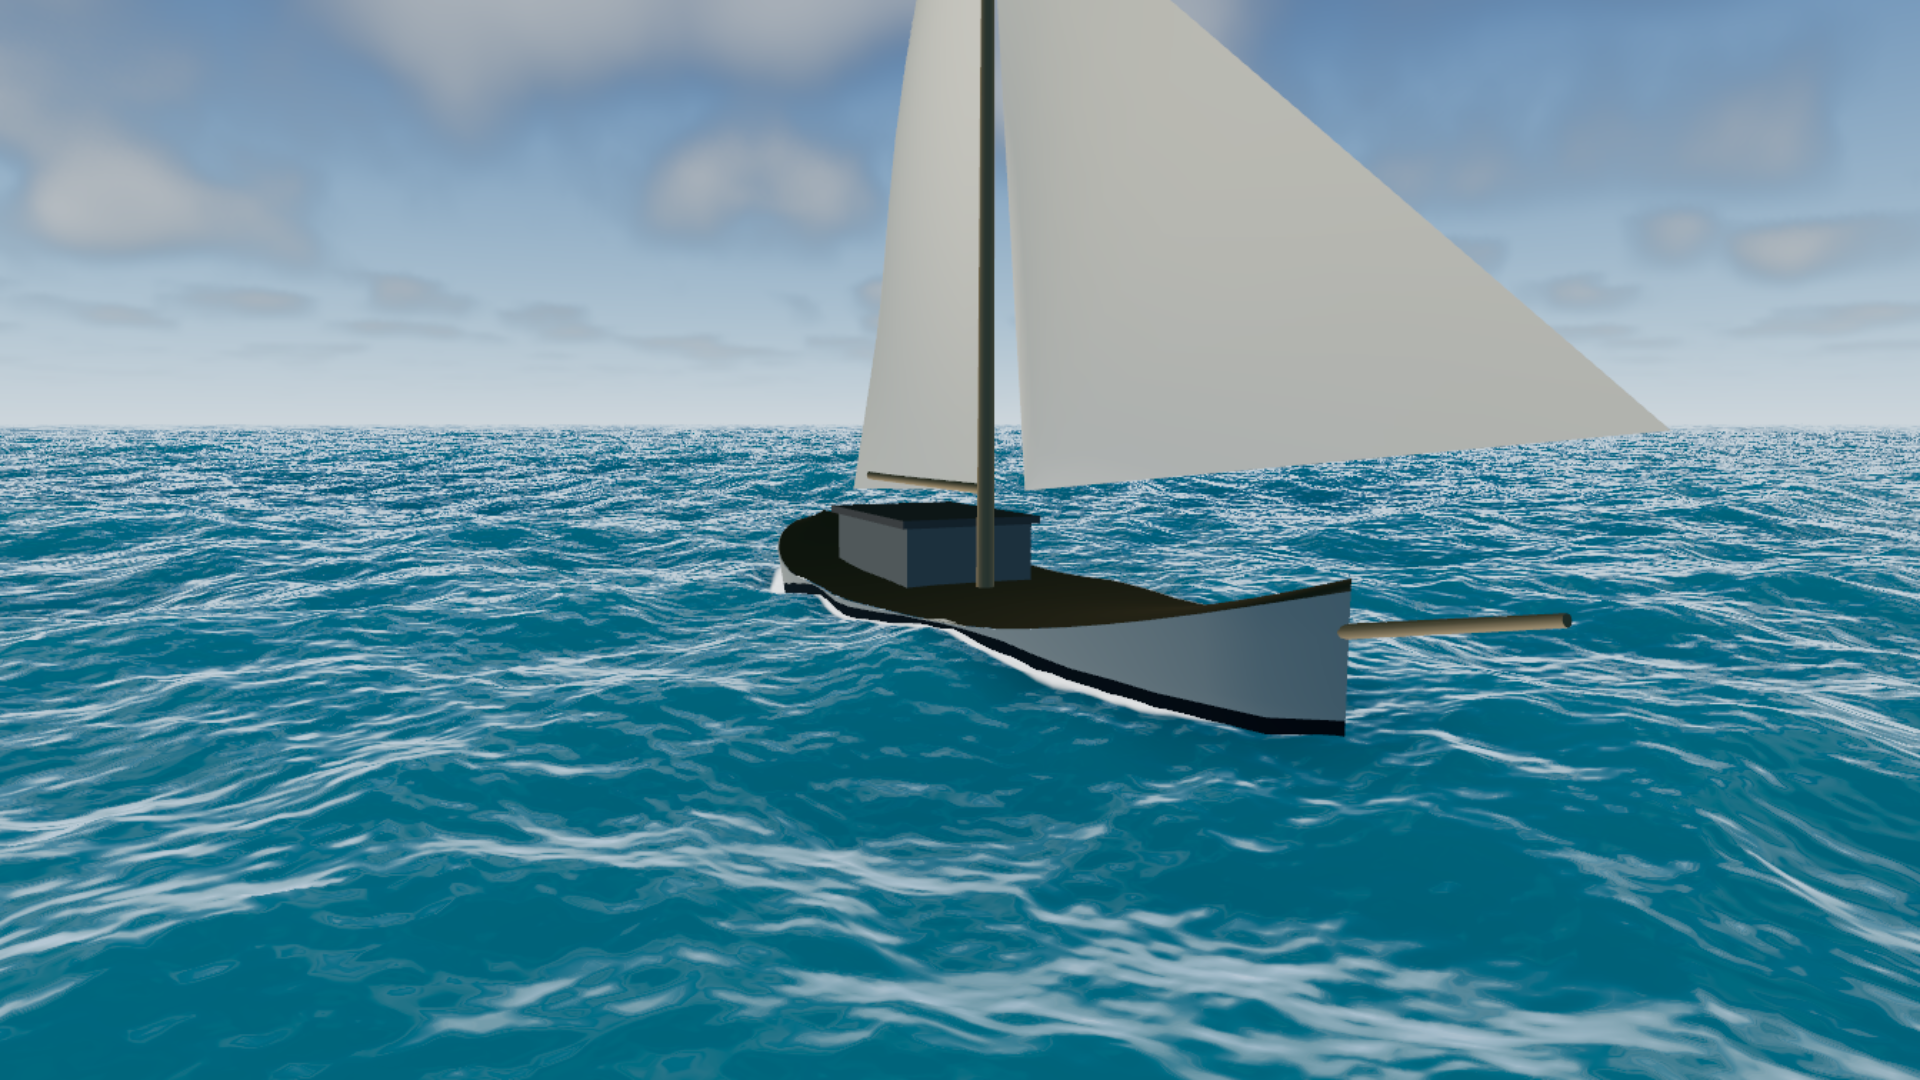
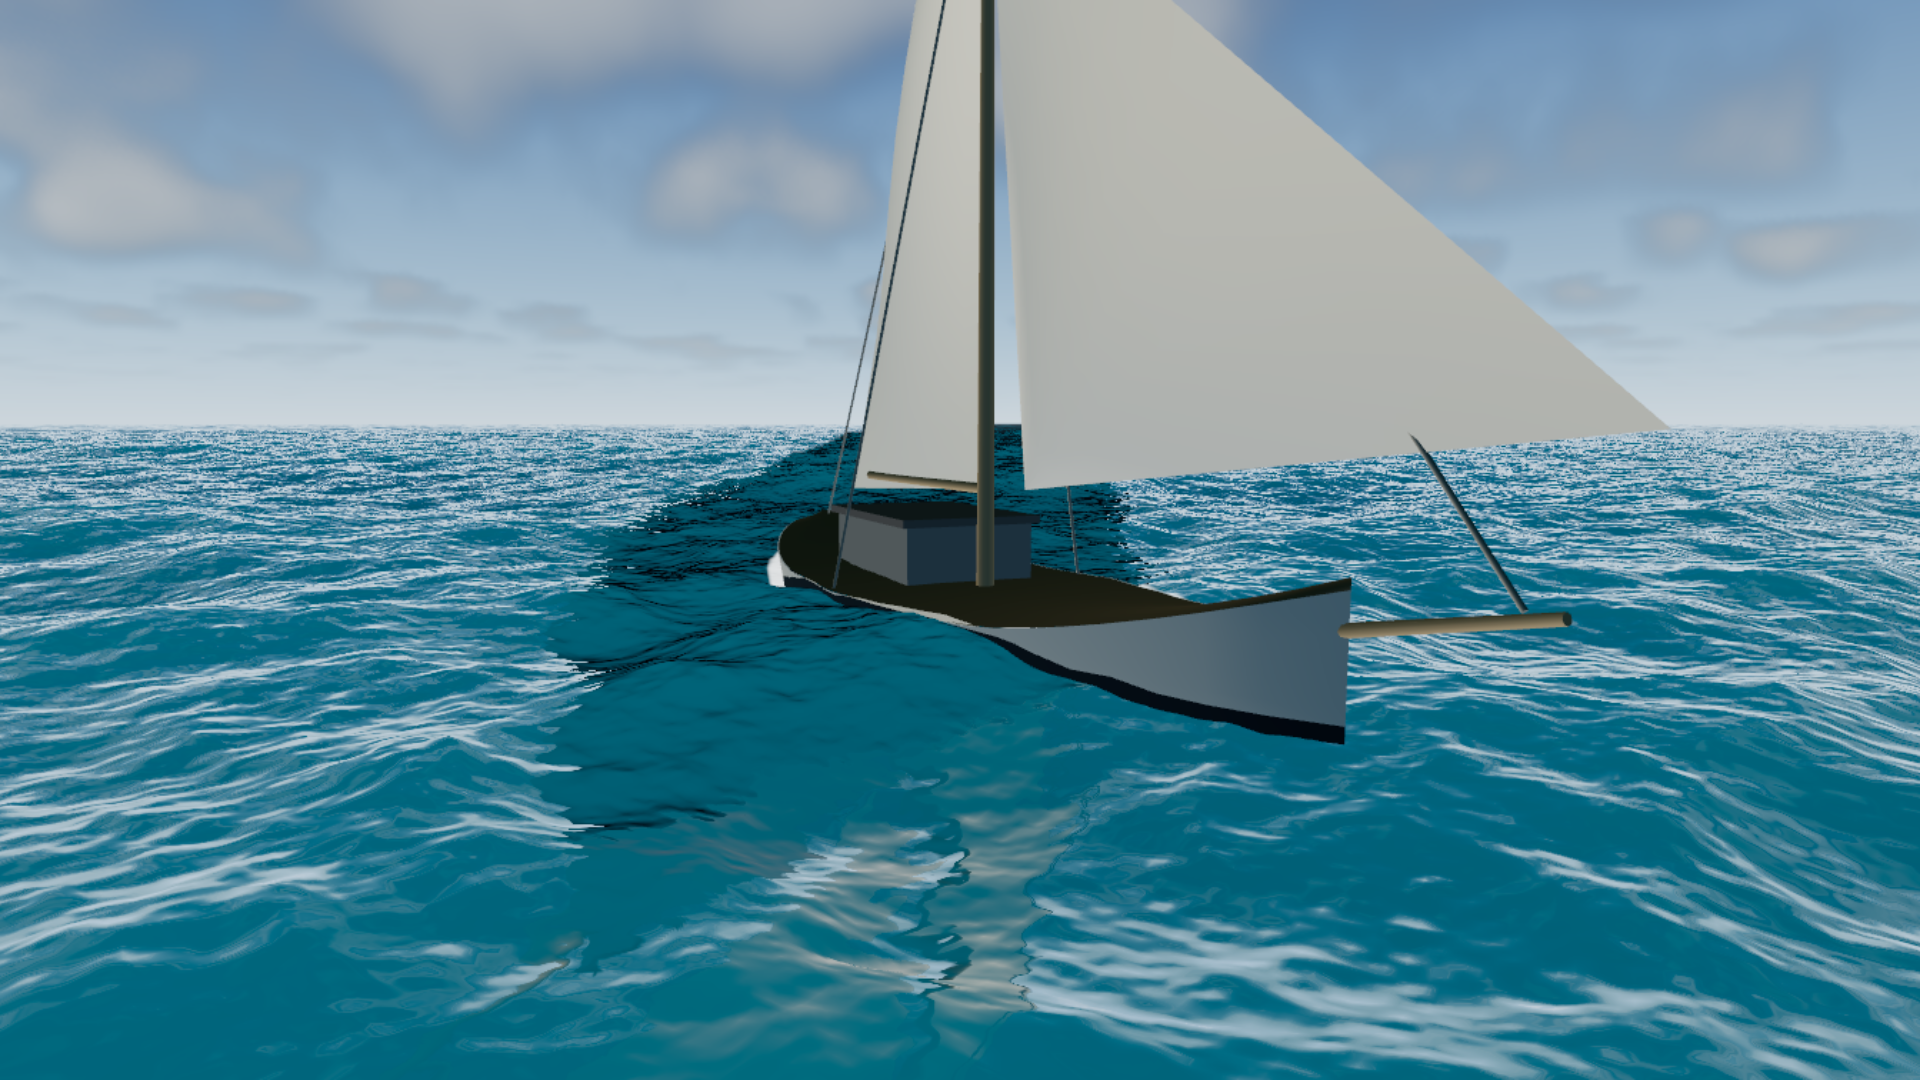
Add planar reflection of the props, standing rigging, tighter hull shadow
The water's reflection is an analytic sky lookup, which is what keeps the
horizon continuous and the reflected sun where the real one is — but a
function of direction alone cannot know there is a boat in the way. The sea
beside the hull showed sky where it should have shown hull, and no amount
of foam at the waterline fixes that: a floating object with no reflection
reads as a sticker.

PropReflection renders the boat and buoys once more at half resolution
through a camera reflected by diag(1, -1, 1). For a mirror plane at y = 0
that makes each screen position correspond to itself, so the water samples
it by screenUV with no projection maths and no dependence on backend
conventions — the same property the cloud pass relies on. The lookup is
displaced by the local surface gradient so the reflection ripples with the
water instead of sitting on it.

Everything below the waterline is cut with a clipping plane. Reflected, the
submerged hull appears *above* the plane, and it smeared across half the
sea as a shadow with no source.

The hull shadow in the water was a 20 m symmetric blob on a 15 m boat. It
is now tight, and offset opposite the sun by the hull height over the sun's
elevation, because a shadow is cast rather than centred.

Standing rigging: forestay, backstay and two shrouds. Four wires costing
almost nothing, and most of what separates a mast from a stick.

Both extra passes were gated on `underwaterFactor < 1`. The factor is
[…]

diff --git a/src/props/reflection.js b/src/props/reflection.js
@@ -1,0 +1,130 @@
+// Planar reflection of the floating objects.
+//
+// The water's reflection is an analytic sky lookup. That is exactly what makes
+// the horizon continuous and the reflected sun land where the real one is — but
+// a function of direction alone cannot know that there is a boat in the way. So
+// the sea beside a hull showed sky where it should have shown hull, and no
+// amount of foam at the waterline fixes that: a floating object with no
+// reflection reads as a sticker.
+//
+// This adds the missing term and nothing else. It renders only the props — one
+// small mesh, half resolution — and the water blends the result into the sky
+// reflection it already computes.
+//
+// Why screenUV is the right lookup, with no projection maths: for a mirror
+// plane at y = 0, a camera reflected through that plane sees, at each screen
+// position, exactly what the real camera sees reflected at that same screen
+// position. Reflecting the camera's world matrix through diag(1, -1, 1) is the
+// whole of the setup. (It flips handedness, so the props render double-sided —
+// which they already do, for the sails.)
+//
+// The surface is not actually a plane, so the lookup is displaced by the local
+// surface gradient. That is the standard approximation and it is what makes the
+// reflection ripple with the water rather than sitting on it like a decal.
+
+import { HalfFloatType, LinearFilter, Matrix4, Mesh, PerspectiveCamera, Plane, RenderTarget, Scene, Vector3 } from 'three/webgpu';
+
+const MIRROR = /*@__PURE__*/ new Matrix4().makeScale( 1, - 1, 1 );
+
+// Everything below the waterline is cut away before mirroring. Without it the
+// submerged hull — which is large, dark and, once reflected, appears *above*
+// the plane — smeared across half the sea as a shadow with no source.
+const WATERLINE = /*@__PURE__*/ new Plane( new Vector3( 0, 1, 0 ), 0 );
+
+export class PropReflection {
+
+	constructor( { scale = 0.5 } = {} ) {
+
+		this.scale = scale;
+
+		this.target = new RenderTarget( 2, 2, {
+			// The props are lit in linear HDR like everything else, and sunlit
+			// canvas comfortably exceeds 1.
+			type: HalfFloatType,
+			depthBuffer: true,
+			stencilBuffer: false,
+		} );
+		this.target.texture.name = 'PropReflection';
+		this.target.texture.minFilter = LinearFilter;
+		this.target.texture.magFilter = LinearFilter;
+		this.target.texture.generateMipmaps = false;
+
+		this.scene = new Scene();
+
+		this.camera = new PerspectiveCamera();
+		this.camera.matrixAutoUpdate = false;
+
+		this._meshes = [];
+
+	}
+
+	get texture() {
+
+		return this.target.texture;
+
+	}
+
+	/**
+	 * Mirror an object into the reflection scene.
+	 *
+	 * A second Mesh sharing the original's geometry and material, because an
+	 * Object3D has one parent and the original has to stay in the main scene.
+	 * Sharing is safe here: these materials place themselves in world space from
+	 * uniforms, so an identity object matrix in either scene gives the same
+	 * result.
+	 */
+	add( mesh ) {
+
+		const clone = new Mesh( mesh.geometry, mesh.material );
+		clone.name = mesh.name + 'Reflection';
+		clone.frustumCulled = false;
+		clone.matrixAutoUpdate = false;
+		this.scene.add( clone );
+		this._meshes.push( clone );
+
+	}
+
+	setSize( width, height ) {
+
+		this.target.setSize(
+			Math.max( 2, Math.round( width * this.scale ) ),
+			Math.max( 2, Math.round( height * this.scale ) )
+		);
+
+	}
+
+	/** Draw the mirrored props. Must run before the main scene render. */
+	render( renderer, camera ) {
+
+		this.camera.projectionMatrix.copy( camera.projectionMatrix );
+		this.camera.projectionMatrixInverse.copy( camera.projectionMatrixInverse );
+		this.camera.matrixWorld.multiplyMatrices( MIRROR, camera.matrixWorld );
+		this.camera.matrixWorldNeedsUpdate = false;
+
+		const previousTarget = renderer.getRenderTarget();
+		const previousAlpha = renderer.getClearAlpha();
+
+		// Coverage rides in alpha, so the background has to clear to zero — the
+		// water uses it to decide where there is anything to reflect at all.
+		const previousClip = renderer.clippingPlanes;
+
+		renderer.clippingPlanes = [ WATERLINE ];
+		renderer.setClearAlpha( 0 );
+		renderer.setRenderTarget( this.target );
+		renderer.clear();
+		renderer.render( this.scene, this.camera );
+		renderer.setRenderTarget( previousTarget );
+		renderer.setClearAlpha( previousAlpha );
+		renderer.clippingPlanes = previousClip;
+
+	}
+
+	dispose() {
+
+		for ( const m of this._meshes ) this.scene.remove( m );
+		this._meshes.length = 0;
+		this.target.dispose();
+
+	}
+
+}

diff --git a/src/main.js b/src/main.js
@@ -22,6 +22,7 @@ import { SPECTRAL_TIERS, SpectralOcean } from './ocean/spectral.js';
 import { Ocean, createOceanMaterial } from './ocean/material.js';
 import { Buoys } from './props/buoys.js';
 import { Vessel } from './props/vessel.js';
+import { PropReflection } from './props/reflection.js';
 import { UnderwaterPipeline } from './underwater/pipeline.js';
 import { Particles, Seabed } from './underwater/scenery.js';
 import { FlyControls } from './input/controls.js';
@@ -171,6 +172,7 @@ class App {
 
 			this.underwaterPipeline?.setSize( w, h );
 			this.clouds?.setSize( w, h );
+			this.propReflection?.setSize( w, h );
 
 		};
 		this.sizer.apply();
@@ -297,10 +299,33 @@ class App {
 			? new FoamHistory( this.env, this.field, FOAM_TIERS[ tier.foam ] )
 			: null;
 
+		// The reflection target has to exist before the water material is built,
+		// because the material samples it. Only on the spectral path, which is the
+		// only path that has props to reflect.
+		// ?noreflect=1 drops the pass. Same reason as ?cloudscale: at 1080p the
+		// vsync cap swallows everything under 16.67 ms, so cost can only be
+		// attributed by removing the thing and measuring again in the same session.
+		const noReflect = new URLSearchParams( location.search ).has( 'noreflect' );
+
+		this.propReflection = ( this.spectral && ! noReflect ) ? new PropReflection() : null;
+
+		if ( this.propReflection ) {
+
+			this.propReflection.setSize(
+				this.sizer.width * this.sizer.effectiveDpr,
+				this.sizer.height * this.sizer.effectiveDpr
+			);
+
+		}
+
 		const material = createOceanMaterial( this.env, this.field, {
 			reflection: this.skyFns.reflection,
 			aerial: this.skyFns.aerial,
-		}, { foam: this.foam, spectral: this.spectral?.textures ?? null } );
+		}, {
+			foam: this.foam,
+			spectral: this.spectral?.textures ?? null,
+			propReflection: this.propReflection ? this.propReflection.texture : null,
+		} );
 
 		this.ocean = new Ocean( this.env, this.field, geometryInfo, material );
 		this.scene.add( this.ocean.mesh );
@@ -320,6 +345,9 @@ class App {
 			this.vessel = new Vessel( this.env, this.spectral.textures );
 			this.scene.add( this.vessel.mesh );
 			this.env.u.vesselMix.value = 1;
+
+			this.propReflection?.add( this.vessel.mesh );
+			this.propReflection?.add( this.buoys.mesh );
 
 		} else {
 
@@ -368,6 +396,9 @@ class App {
 			this.vessel = null;
 
 		}
+
+		this.propReflection?.dispose();
+		this.propReflection = null;
 
 		this.scene.remove( this.skyMesh );
 		this.skyMesh.geometry.dispose();
@@ -605,7 +636,21 @@ class App {
 
 		// Clouds third — the sky dome composites this target, and underwater the
 		// dome is hidden, so there is nothing to draw it for.
-		if ( this.clouds && this.underwaterFactor < 1 ) this.clouds.render( this.renderer, this.camera );
+		// Both extra passes are gated well before the transition completes. The
+		// factor is damped and settles at 0.999-something, so a `< 1` test never
+		// actually fired and the submerged camera paid for a sky and a reflection
+		// it could not see — eleven frames a second of it.
+		const surfaced = this.underwaterFactor < 0.9;
+
+		if ( this.clouds && surfaced ) this.clouds.render( this.renderer, this.camera );
+
+		// Mirrored props, for the same reason and with the same gate: below the
+		// surface there is no reflection to see.
+		if ( this.propReflection && surfaced ) {
+
+			this.propReflection.render( this.renderer, this.camera );
+
+		}
 
 		// Above water with no bloom there is nothing for the post pipeline to do,
 		// so the scene goes straight to the canvas at zero extra cost.

diff --git a/src/ocean/material.js b/src/ocean/material.js
@@ -21,7 +21,7 @@ import { DoubleSide, FrontSide, Mesh, MeshBasicNodeMaterial } from 'three/webgpu
 import {
 	Fn, If, cameraPosition, dot, exp, faceDirection, float, length, max, min, mix,
 	mx_fractal_noise_float, normalize, oneMinus, positionGeometry, positionWorld, pow, reflect,
-	refract, saturate, smoothstep, step, texture, varyingProperty, vec2, vec3,
+	refract, saturate, screenUV, smoothstep, step, texture, varyingProperty, vec2, vec3,
 } from 'three/tsl';
 
 import { createWaveEvaluator, foamFromJacobian } from './waves.js';
@@ -229,6 +229,21 @@ export function createOceanMaterial( env, field, sky, opts = {} ) {
 		const R = liftReflection( reflect( V.negate(), N ) ).toVar( 'R' );
 		const reflection = sky.reflection( R, reflBlur ).toVar( 'reflection' );
 
+		if ( opts.propReflection ) {
+
+			// Mirrored props, sampled at this pixel's own screen position — see the
+			// note in reflection.js for why that is exact for a plane at y = 0. The
+			// offset by the surface gradient is what makes the reflection ripple
+			// with the water instead of sitting on it like a decal; it is scaled
+			// down with distance because a gradient that displaces by half a screen
+			// near the camera displaces the horizon into nonsense.
+			const wobble = grad.mul( oneMinus( smoothstep( 4.0, 90.0, vRadial ) ) ).mul( 0.055 );
+			const rp = texture( opts.propReflection, saturate( screenUV.add( wobble ) ) ).toVar( 'propRefl' );
+
+			reflection.assign( mix( reflection, rp.rgb, saturate( rp.a ).mul( u.vesselMix ) ) );
+
+		}
+
 		/* --- sun specular ---------------------------------------------- */
 
 		// This lobe is now the *only* sun highlight on the water, so it carries the
@@ -347,7 +362,11 @@ export function createOceanMaterial( env, field, sky, opts = {} ) {
 			// is the ellipse the boat actually occupies rather than its bounding
 			// box. At a 57-degree heading the box is nearly twice the area, and the
 			// foam collar drawn from it read as a raft the boat was sitting on.
-			const rel = P.xz.sub( u.vesselPos.xz ).toVar( 'hullRel' );
+			// Offset opposite the sun by the hull's own height over the sun's
+			// elevation — a shadow is cast, not centred. Clamped because a low sun
+			// would otherwise throw it to the horizon.
+			const drop = u.sunDir.xz.div( max( u.sunDir.y, float( 0.30 ) ) ).mul( 1.4 );
+			const rel = P.xz.sub( u.vesselPos.xz ).add( drop ).toVar( 'hullRel' );
 			const c = u.vesselDir.x, sn = u.vesselDir.y;
 			const local = vec2(
 				rel.x.mul( c ).add( rel.y.mul( sn ) ),
@@ -360,7 +379,7 @@ export function createOceanMaterial( env, field, sky, opts = {} ) {
 			// it. Without this the boat looks pasted on: it is the darkening in the
 			// water, more than the object itself, that says something is *in* the
 			// sea rather than in front of it.
-			const shade = oneMinus( smoothstep( 0.80, 1.45, hullD ) ).mul( 0.55 ).toVar( 'hullShade' );
+			const shade = oneMinus( smoothstep( 0.72, 1.12, hullD ) ).mul( 0.34 ).toVar( 'hullShade' );
 			body.mulAssign( oneMinus( shade ) );
 
 		} );

diff --git a/src/props/vessel.js b/src/props/vessel.js
@@ -247,6 +247,35 @@ function buildGeometry() {
 	sprit.translate( 0, sheer( 0.985 ) - 0.15, LENGTH_FWD + 0.55 );
 	b.add( sprit, [ 0.42, 0.32, 0.20 ] );
 
+	// --- standing rigging. Four wires, each a hair over a centimetre thick.
+	//     They cost almost nothing and they are most of what separates a mast
+	//     from a stick: a rig reads as tensioned or it reads as a pole.
+	const masthead = [ 0, deckY + 11.2, 1.0 ];
+
+	const strut = ( a, c, r ) => {
+
+		const dx = c[ 0 ] - a[ 0 ], dy = c[ 1 ] - a[ 1 ], dz = c[ 2 ] - a[ 2 ];
+		const len = Math.hypot( dx, dy, dz );
+		const g = new CylinderGeometry( r, r, len, 5 );
+
+		// The cylinder starts along +Y; rotate that onto the span, then translate
+		// to its midpoint.
+		const yaw = Math.atan2( dx, dz );
+		const pitch = Math.atan2( Math.hypot( dx, dz ), dy );
+		g.rotateX( pitch );
+		g.rotateY( yaw );
+		g.translate( ( a[ 0 ] + c[ 0 ] ) / 2, ( a[ 1 ] + c[ 1 ] ) / 2, ( a[ 2 ] + c[ 2 ] ) / 2 );
+		return g;
+
+	};
+
+	const WIRE = [ 0.34, 0.33, 0.30 ];
+
+	b.add( strut( masthead, [ 0, sheer( 0.985 ) + 0.15, LENGTH_FWD + 1.6 ], 0.028 ), WIRE );   // forestay
+	b.add( strut( masthead, [ 0, sheer( 0.02 ) + 0.05, - LENGTH_AFT + 0.4 ], 0.026 ), WIRE );  // backstay
+	b.add( strut( masthead, [ halfBeam( 0.5 ) * 0.94, sheer( 0.5 ), 0.2 ], 0.024 ), WIRE );    // shrouds
+	b.add( strut( masthead, [ - halfBeam( 0.5 ) * 0.94, sheer( 0.5 ), 0.2 ], 0.024 ), WIRE );
+
 	// --- mainsail: a cambered quad from the mast to the boom end. The belly is
 	//     the whole point; a flat sail reads as cardboard.
 	b.add( loft( 10, 10, ( t, v ) => {

diff --git a/README.md b/README.md
@@ -47,6 +47,10 @@ WebGPU를 우선 사용하고, 사용할 수 없으면 같은 코드베이스가
   모델도 텍스처도 없다. 15 m 선체는 자기 길이보다 짧은 파도를 따라갈 수 없으므로 가장 긴
   캐스케이드만 샘플하고, **수면 아래 부분만 자기 위치의 수면 높이에 맞춰 휜다** — 강체로
   두면 선체 밑으로 하늘이 보인다. 수면 쪽에는 흘수선 포말 칼라와 물기둥 그림자가 붙는다.
+- **평면 반사** — 배와 부표만 1/2 해상도로 한 번 더 그린다. 카메라 행렬을 `diag(1,-1,1)`로
+  반사하면 y=0 거울에 대해 각 화면 좌표가 그대로 대응하므로, 물은 `screenUV`로 읽고
+  수면 기울기만큼 흔들면 된다 — 투영 수식도 백엔드 규약 의존도 없다.
+  흘수선 아래는 클리핑 평면으로 잘라낸다(반사하면 수면 *위*로 올라와 바다에 검은 얼룩이 된다).
 - **프리셋 10종** — Calm Lagoon / Open Sea / Golden Hour / Storm Front / Moonlit /
   Trade Winds / Coral Shallows / Arctic / Dusk / Sea Fog. 색 필터가 아니라 태양·하늘·파도·
   물성·포말·비·수중까지 포함한 환경 상태 전체가 1.5초에 걸쳐 보간된다.
